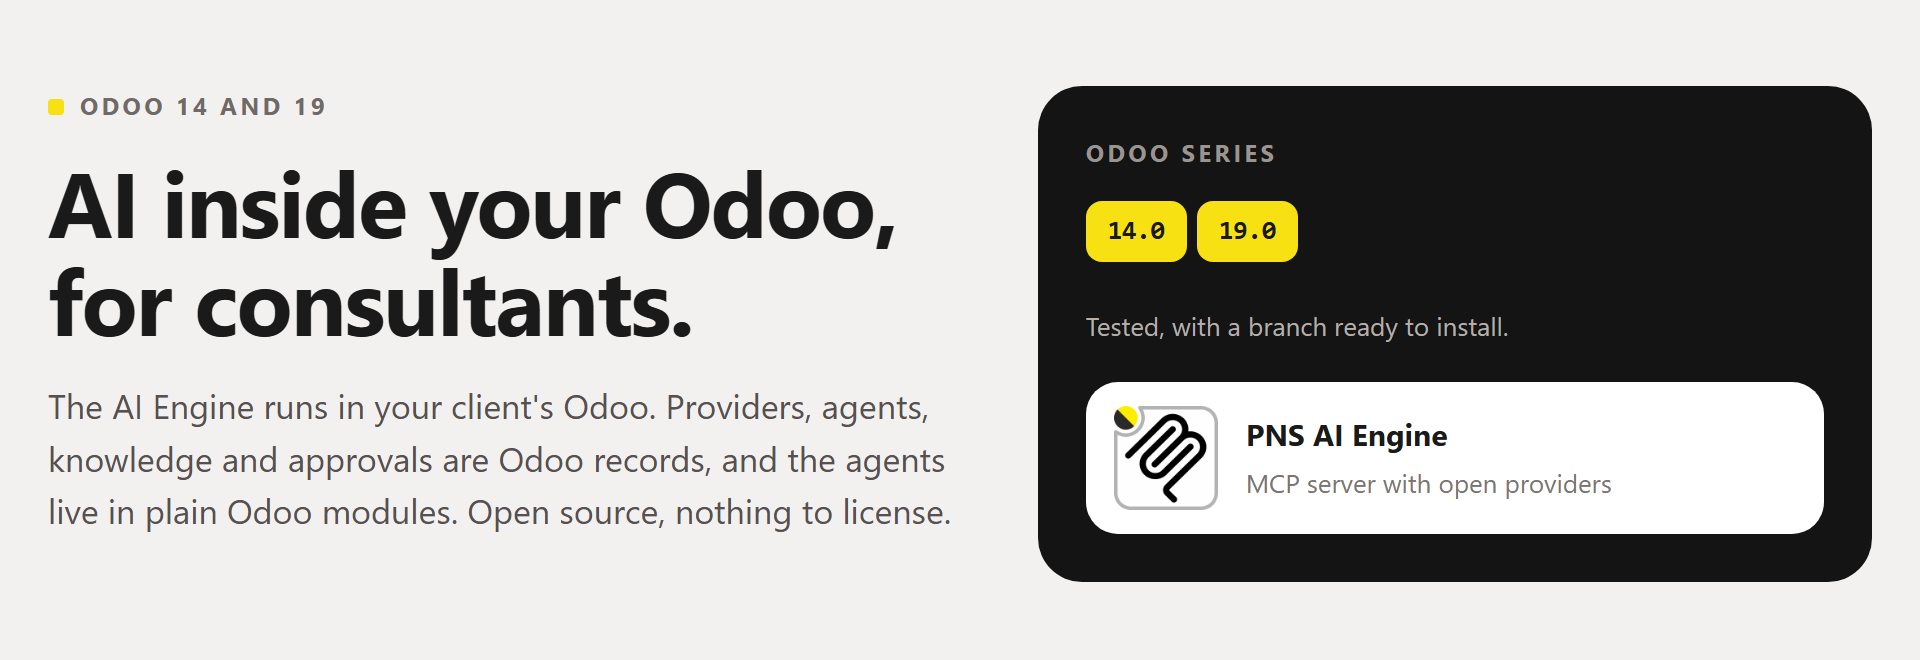
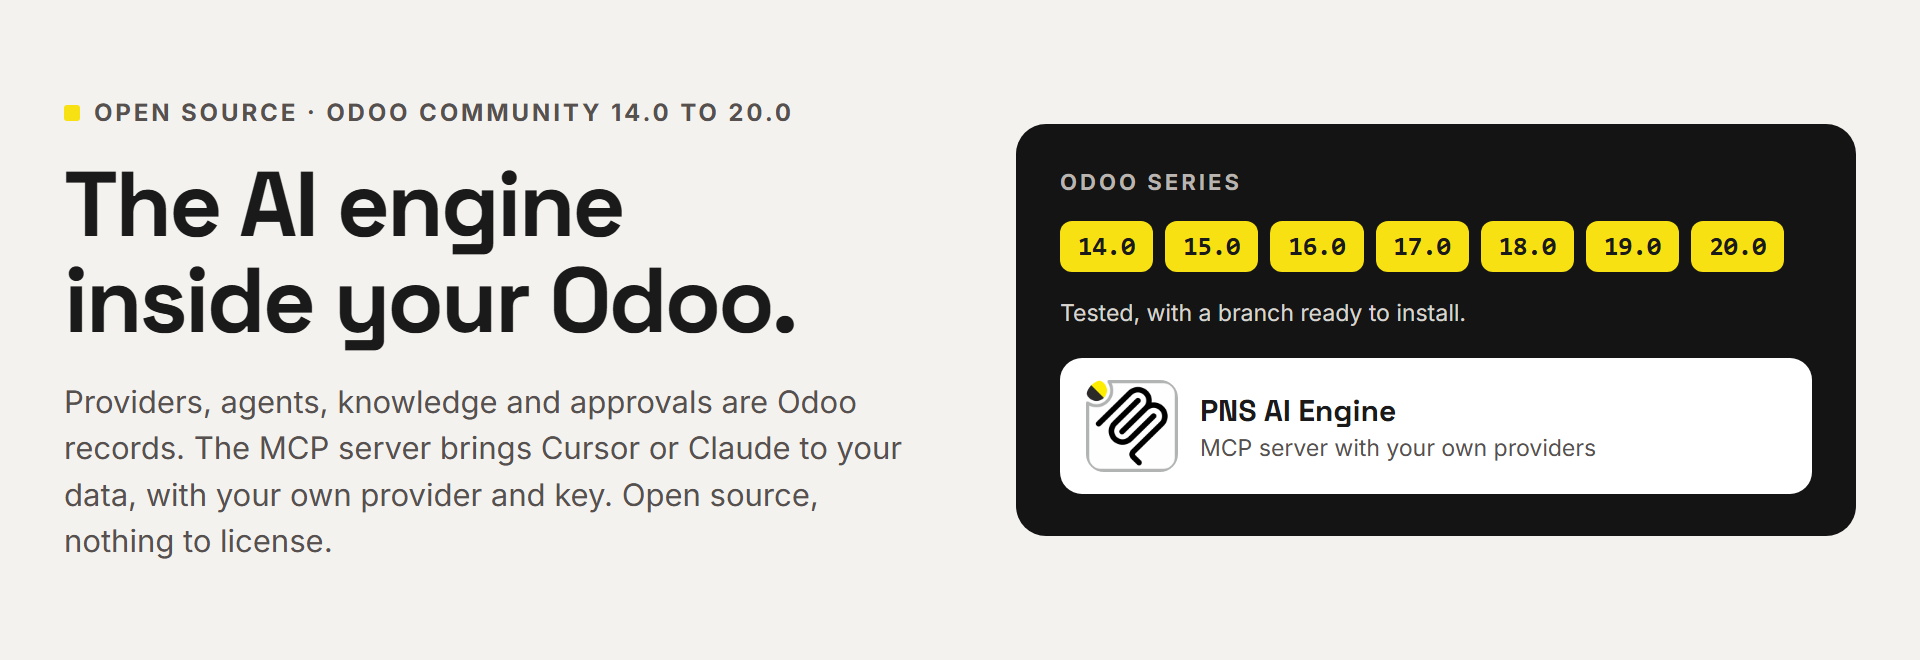
pns_ai_mcp 3.1.973 for Odoo 18.0

diff --git a/pns_ai_mcp/__manifest__.py b/pns_ai_mcp/__manifest__.py
@@ -5,7 +5,7 @@
 
 {
     'name': 'PNS AI Engine',
-    'version': '18.0.3.1.972',
+    'version': '18.0.3.1.973',
     'images': ['static/description/banner_store.png'],
     'category': 'Extra Tools',
     'summary': 'Open-source AI engine and MCP server for Odoo Community 14 to 20: OpenAI, Claude, Ollama or any compatible model, read-only sandbox, every write approved by a person.',

diff --git a/pns_ai_mcp/CHANGELOG.md b/pns_ai_mcp/CHANGELOG.md
@@ -2,6 +2,10 @@
 
 What changes for people who use this module, one section per published version, newest first. The heading is the git tag.
 
+## owl1-3.1.973_owl2-3.1.973_owl3-3.1.973 (2026-11-09)
+
+- Banners (Apps store, README and site) show the seven supported series, 14.0 to 20.0; the old ones still said 14 and 19. Images only.
+
 ## owl1-3.1.972_owl2-3.1.972_owl3-3.1.972 (2026-11-09)
 
 - A confirmation card painted in the chat keeps its token while a badge counts the pending cards or the list is read again, so Confirm no longer fails with an old token. "Process this PDF" with a PDF attached works on the attachment instead of offering a download, on Odoo 20 too.
